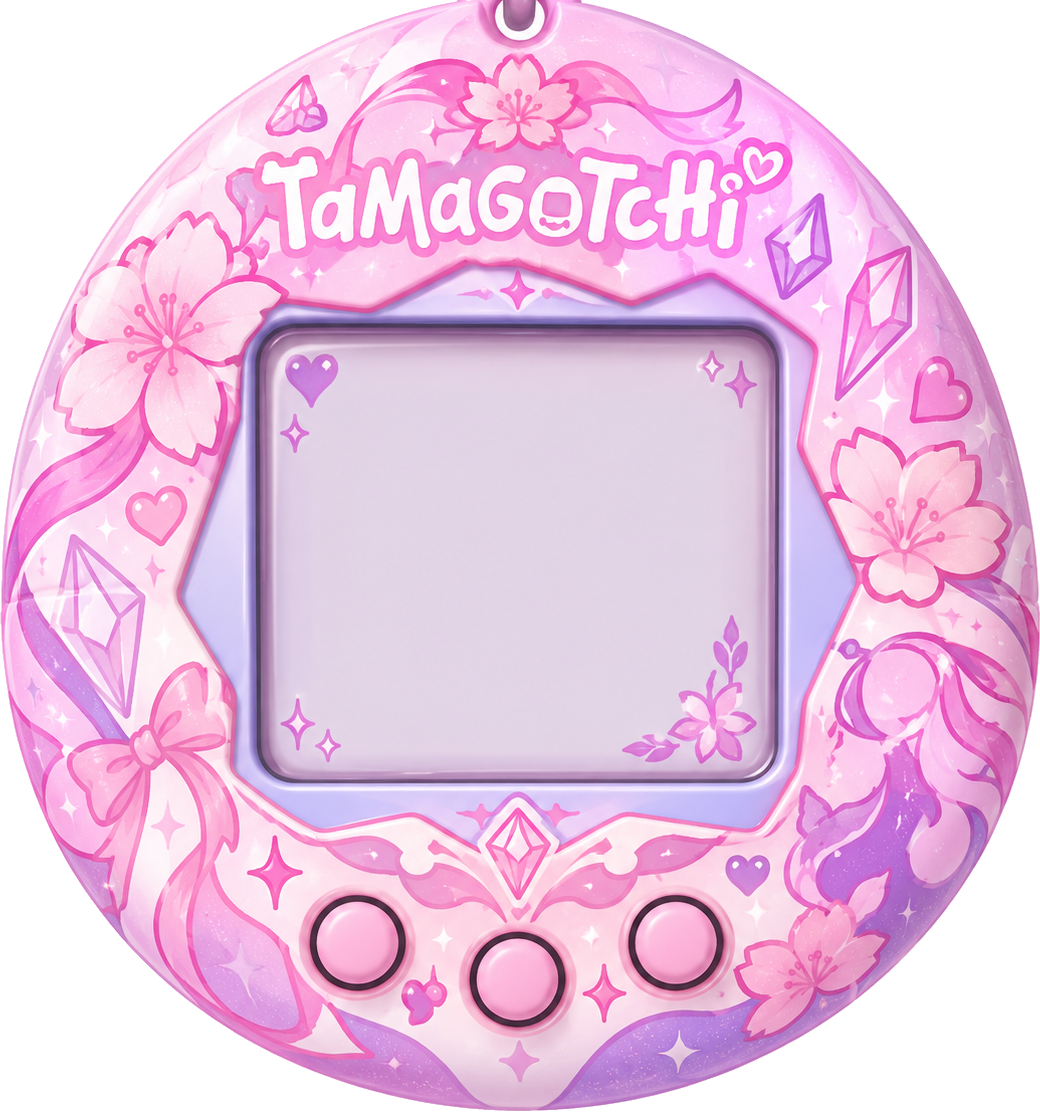
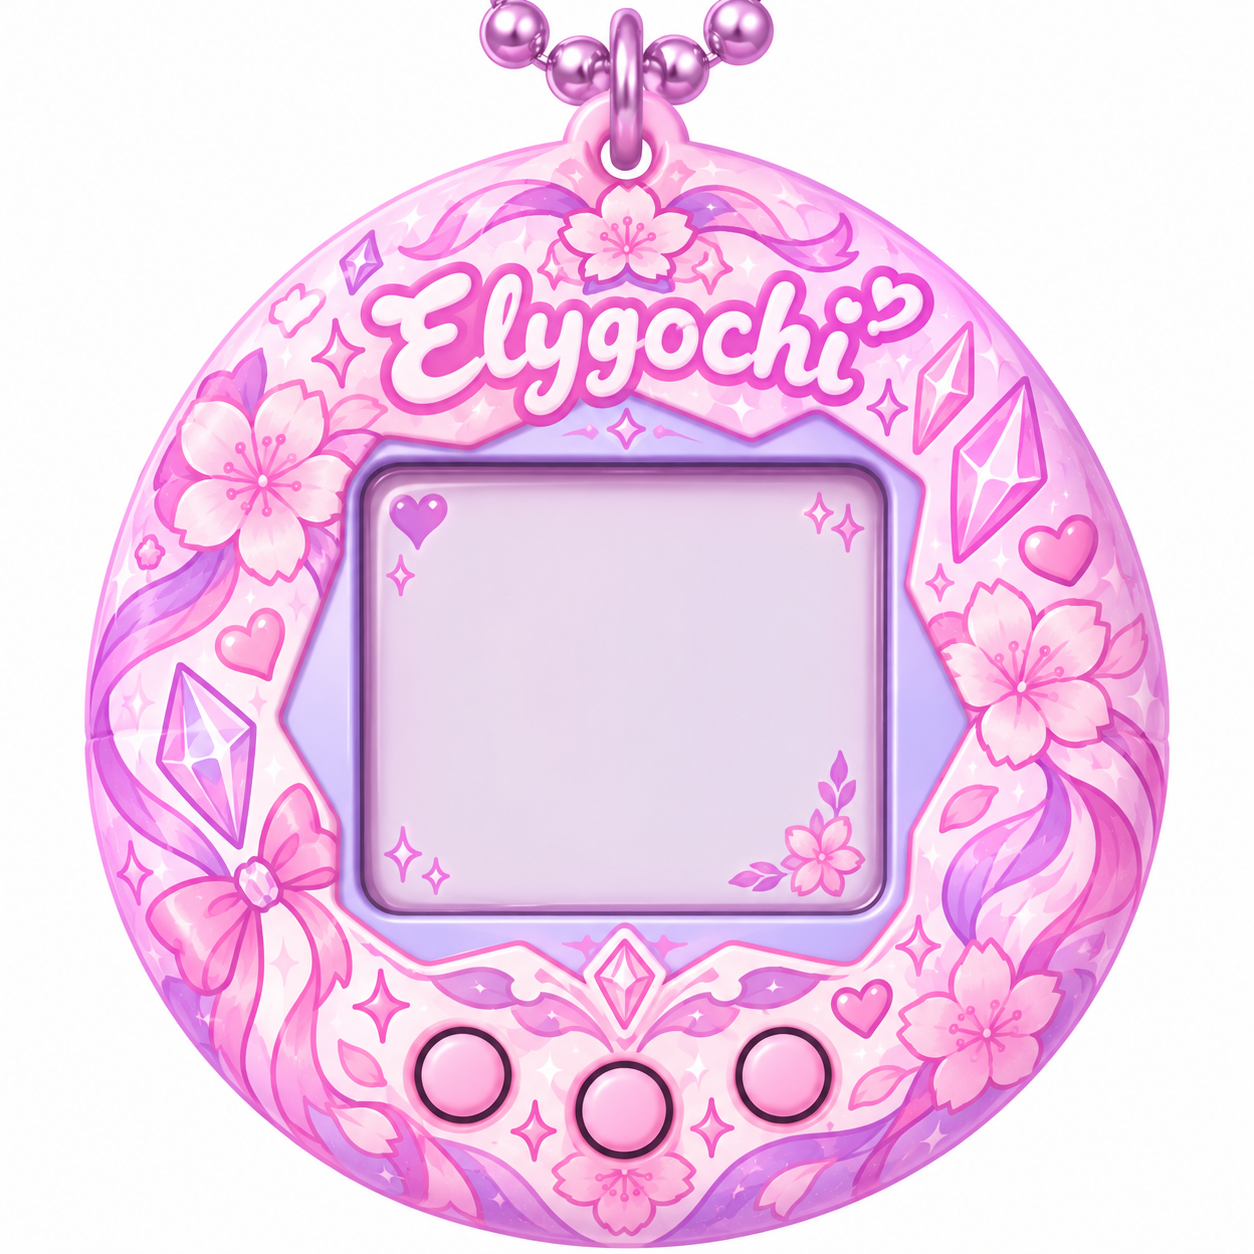
Rename project to Elygochi, new shell art, time-of-day background tint
- Full rename: Go module (tamagotchi -> elygochi), cmd/tamagotchi -> cmd/elygochi, window title,
  macOS bundle name/identifier, config directory, autostart labels, README
- New shell artwork with "Elygochi" branding baked in; recalculated the portrait screen-cutout
  rect and native art dimensions for its new 1254x1254 square canvas (was 1040x1112)
- Background now shifts through a pale palette across the day (cool lavender at night, peach in
  the morning, the original pink at midday, warm sunset tones in the evening) instead of a single
  fixed color — stays light enough that the existing dark-ink text is always readable
- README: documented Spotify setup for both paths (local detection needs nothing; the Web API
  fallback still needs its own one-time Client ID — Spotify's terms require every app to register
  its own, so there's no single shared login redirect that skips that step)

diff --git a/cmd/elygochi/window_main.go b/cmd/elygochi/window_main.go
@@ -16,16 +16,16 @@ import (
 	"github.com/hajimehoshi/ebiten/v2/inpututil"
 	"github.com/hajimehoshi/ebiten/v2/vector"
 
-	"tamagotchi/internal/assets"
-	"tamagotchi/internal/birthday"
-	"tamagotchi/internal/pet"
-	"tamagotchi/internal/phrases"
-	"tamagotchi/internal/sleepcfg"
-	"tamagotchi/internal/spotify"
-	"tamagotchi/internal/sysinfo"
-	"tamagotchi/internal/uifont"
-	"tamagotchi/internal/username"
-	"tamagotchi/internal/weather"
+	"elygochi/internal/assets"
+	"elygochi/internal/birthday"
+	"elygochi/internal/pet"
+	"elygochi/internal/phrases"
+	"elygochi/internal/sleepcfg"
+	"elygochi/internal/spotify"
+	"elygochi/internal/sysinfo"
+	"elygochi/internal/uifont"
+	"elygochi/internal/username"
+	"elygochi/internal/weather"
 )
 
 const (
@@ -39,7 +39,7 @@ const (
 	nowPlayingY      = infoBarHeight + 4
 	nowPlayingHeight = 24 // dedicated row for "what's playing", separate from the crowded info bar
 
-	shellWidth = 440 // the tamagotchi shell art is scaled to this width
+	shellWidth = 440 // the elygochi shell art is scaled to this width
 	shellX     = (winWidth - shellWidth) / 2
 	shellY     = nowPlayingY + nowPlayingHeight + 12
 
@@ -71,10 +71,10 @@ const (
 // instead of being logged like a real failure.
 var errQuit = errors.New("closed by user")
 
-// shellHeight is derived from the source art's aspect ratio (1040x1112).
+// shellHeight is derived from the source art's aspect ratio.
 var shellHeight = func() int {
 	w := float64(shellWidth)
-	return int(w * 1112 / 1040)
+	return int(w * assets.ShellNativeH / assets.ShellNativeW)
 }()
 
 type button struct {
@@ -188,7 +188,7 @@ func runMainWindow() {
 	}
 
 	ebiten.SetWindowSize(winWidth, winHeight)
-	ebiten.SetWindowTitle("Elysia — tamagochi")
+	ebiten.SetWindowTitle("Elygochi")
 	if icon, err := assets.LoadAppIcon(); err == nil {
 		ebiten.SetWindowIcon([]image.Image{icon})
 	}
@@ -203,12 +203,11 @@ func runMainWindow() {
 	g.store.save(g.state)
 }
 
-// scaleRect maps a rectangle from the shell art's native 1040x1112 space
-// into window coordinates, given the displayed shell size and offset.
+// scaleRect maps a rectangle from the shell art's native pixel space into
+// window coordinates, given the displayed shell size and offset.
 func scaleRect(r image.Rectangle, dispW, dispH, offX, offY int) image.Rectangle {
-	const nativeW, nativeH = 1040, 1112
-	sx := float64(dispW) / nativeW
-	sy := float64(dispH) / nativeH
+	sx := float64(dispW) / assets.ShellNativeW
+	sy := float64(dispH) / assets.ShellNativeH
 	return image.Rect(
 		offX+int(float64(r.Min.X)*sx),
 		offY+int(float64(r.Min.Y)*sy),
@@ -413,7 +412,7 @@ func (g *mainGame) scheduleAmbient() {
 }
 
 func (g *mainGame) Draw(screen *ebiten.Image) {
-	screen.Fill(color.RGBA{0xFF, 0xF3, 0xF7, 0xFF})
+	screen.Fill(bgColorForTime(time.Now()))
 	drawBackgroundDecor(screen)
 
 	var white ebiten.ColorScale

diff --git a/cmd/elygochi/decor.go b/cmd/elygochi/decor.go
@@ -3,6 +3,7 @@ package main
 import (
 	"image/color"
 	"math"
+	"time"
 
 	"github.com/hajimehoshi/ebiten/v2"
 	"github.com/hajimehoshi/ebiten/v2/vector"
@@ -22,6 +23,59 @@ func bubbleInkColor() ebiten.ColorScale {
 	var c ebiten.ColorScale
 	c.ScaleWithColor(color.RGBA{0xD6, 0x14, 0x7A, 0xFF})
 	return c
+}
+
+// bgAnchor is one point in the day's background gradient: the hour it's
+// centered on, and the pale background color for that time.
+type bgAnchor struct {
+	hour float64
+	clr  color.RGBA
+}
+
+// bgAnchors stay light enough that the existing dark-ink text (inkColor,
+// bubbleInkColor) is always readable — this is an ambient tint across the
+// day, not a real light/dark theme switch.
+var bgAnchors = []bgAnchor{
+	{2, color.RGBA{0xEB, 0xE8, 0xFA, 0xFF}},  // deep night: pale cool lavender
+	{6, color.RGBA{0xEB, 0xE8, 0xFA, 0xFF}},  // pre-dawn: same as night
+	{9, color.RGBA{0xFF, 0xF1, 0xE6, 0xFF}},  // morning: soft warm peach
+	{13, color.RGBA{0xFF, 0xF3, 0xF7, 0xFF}}, // midday: the original pink
+	{18, color.RGBA{0xFF, 0xE9, 0xE2, 0xFF}}, // evening: warm rosy sunset
+	{21, color.RGBA{0xEB, 0xE8, 0xFA, 0xFF}}, // night: back to lavender
+}
+
+// bgColorForTime interpolates bgAnchors around the clock for a smooth
+// gradient rather than hard cuts between time-of-day palettes.
+func bgColorForTime(t time.Time) color.RGBA {
+	h := t.Hour()
+	m := t.Minute()
+	hour := float64(h) + float64(m)/60
+
+	n := len(bgAnchors)
+	for i := 0; i < n; i++ {
+		a := bgAnchors[i]
+		b := bgAnchors[(i+1)%n]
+		bHour := b.hour
+		if bHour <= a.hour {
+			bHour += 24
+		}
+		hh := hour
+		if hh < a.hour {
+			hh += 24
+		}
+		if hh >= a.hour && hh <= bHour {
+			frac := (hh - a.hour) / (bHour - a.hour)
+			return lerpColor(a.clr, b.clr, frac)
+		}
+	}
+	return bgAnchors[0].clr
+}
+
+func lerpColor(a, b color.RGBA, t float64) color.RGBA {
+	lerp := func(x, y uint8) uint8 {
+		return uint8(float64(x) + (float64(y)-float64(x))*t)
+	}
+	return color.RGBA{lerp(a.R, b.R), lerp(a.G, b.G), lerp(a.B, b.B), 0xFF}
 }
 
 type decoration struct {

diff --git a/internal/assets/assets.go b/internal/assets/assets.go
@@ -1,4 +1,4 @@
-// Package assets embeds the tamagotchi's art and maps it onto moods.
+// Package assets embeds the elygochi's art and maps it onto moods.
 //
 // The source art (fan illustrations of Elysia and a chibi sticker pack)
 // wasn't drawn with these specific moods in mind, so most of it reads as
@@ -16,8 +16,8 @@ import (
 
 	"github.com/hajimehoshi/ebiten/v2"
 
-	"tamagotchi/internal/gifanim"
-	"tamagotchi/internal/pet"
+	"elygochi/internal/gifanim"
+	"elygochi/internal/pet"
 )
 
 //go:embed portraits
@@ -36,11 +36,18 @@ var appIconFS embed.FS
 var easterEggFS embed.FS
 
 // Frame layout, in the coordinate space of the shell.png asset itself
-// (1040x1112). ScreenRect is the pixel rectangle of the shell's screen
+// (1254x1254). ScreenRect is the pixel rectangle of the shell's screen
 // cutout, where the portrait should be composited.
-var ScreenRect = image.Rect(273, 345, 756, 768)
+var ScreenRect = image.Rect(395, 495, 870, 885)
 
-// LoadFrame decodes the tamagotchi shell artwork that the portrait sits
+// ShellNativeW and ShellNativeH are shell.png's own pixel dimensions —
+// ScreenRect and any other shell-relative coordinates are in this space.
+const (
+	ShellNativeW = 1254
+	ShellNativeH = 1254
+)
+
+// LoadFrame decodes the elygochi shell artwork that the portrait sits
 // inside.
 func LoadFrame() (*ebiten.Image, error) {
 	return decodePNG(frameFS, "frame/shell.png")

diff --git a/cmd/elygochi/window_overlay.go b/cmd/elygochi/window_overlay.go
@@ -11,15 +11,15 @@ import (
 	"github.com/hajimehoshi/ebiten/v2"
 	"github.com/hajimehoshi/ebiten/v2/inpututil"
 
-	"tamagotchi/internal/assets"
-	"tamagotchi/internal/bubblecfg"
-	"tamagotchi/internal/fleecfg"
-	"tamagotchi/internal/gifanim"
-	"tamagotchi/internal/overlaycfg"
-	"tamagotchi/internal/pet"
-	"tamagotchi/internal/phrases"
-	"tamagotchi/internal/sleepcfg"
-	"tamagotchi/internal/uifont"
+	"elygochi/internal/assets"
+	"elygochi/internal/bubblecfg"
+	"elygochi/internal/fleecfg"
+	"elygochi/internal/gifanim"
+	"elygochi/internal/overlaycfg"
+	"elygochi/internal/pet"
+	"elygochi/internal/phrases"
+	"elygochi/internal/sleepcfg"
+	"elygochi/internal/uifont"
 )
 
 // Base dimensions at overlaycfg scale 1.0. The overlay's actual on-screen

diff --git a/internal/pet/pet.go b/internal/pet/pet.go
@@ -1,4 +1,4 @@
-// Package pet implements the tamagotchi's core simulation state:
+// Package pet implements the elygochi's core simulation state:
 // stats, time-based degradation, mood, and persistence.
 package pet
 
@@ -63,7 +63,7 @@ func (m Mood) String() string {
 // criticalThreshold marks a stat as critically low.
 const criticalThreshold = 20
 
-// State is the tamagotchi's full simulation state.
+// State is the elygochi's full simulation state.
 type State struct {
 	Hunger      Stat      `json:"hunger"`      // 0 = starving, 100 = full
 	Energy      Stat      `json:"energy"`      // 0 = exhausted, 100 = rested

diff --git a/cmd/elygochi/settings.go b/cmd/elygochi/settings.go
@@ -9,12 +9,12 @@ import (
 	"github.com/hajimehoshi/ebiten/v2/inpututil"
 	"github.com/hajimehoshi/ebiten/v2/vector"
 
-	"tamagotchi/internal/autostart"
-	"tamagotchi/internal/bubblecfg"
-	"tamagotchi/internal/fleecfg"
-	"tamagotchi/internal/overlaycfg"
-	"tamagotchi/internal/spotify"
-	"tamagotchi/internal/uifont"
+	"elygochi/internal/autostart"
+	"elygochi/internal/bubblecfg"
+	"elygochi/internal/fleecfg"
+	"elygochi/internal/overlaycfg"
+	"elygochi/internal/spotify"
+	"elygochi/internal/uifont"
 )
 
 type settingsRow struct {

diff --git a/internal/statepath/statepath.go b/internal/statepath/statepath.go
@@ -1,4 +1,4 @@
-// Package statepath locates the on-disk file where the tamagotchi's save
+// Package statepath locates the on-disk file where the elygochi's save
 // state lives, shared between the main window and the desktop overlay.
 package statepath
 
@@ -14,7 +14,7 @@ func Default() (string, error) {
 	if err != nil {
 		return "", err
 	}
-	dir = filepath.Join(dir, "tamagotchi")
+	dir = filepath.Join(dir, "elygochi")
 	if err := os.MkdirAll(dir, 0o755); err != nil {
 		return "", err
 	}

diff --git a/cmd/elygochi/main.go b/cmd/elygochi/main.go
@@ -1,4 +1,4 @@
-// Command tamagotchi runs the Elysia desktop tamagotchi: a main window for
+// Command elygochi runs the Elysia desktop elygochi: a main window for
 // feeding/playing/resting the pet, plus a transparent overlay that lets the
 // pet fly around the desktop. The two windows are separate OS processes
 // (Ebitengine only supports one window per process) kept in sync through a

diff --git a/internal/spotify/spotify.go b/internal/spotify/spotify.go
@@ -26,7 +26,7 @@ import (
 	"sync"
 	"time"
 
-	"tamagotchi/internal/spotifylocal"
+	"elygochi/internal/spotifylocal"
 )
 
 const (
@@ -331,7 +331,7 @@ func configDir() (string, error) {
 	if err != nil {
 		return "", err
 	}
-	dir = filepath.Join(dir, "tamagotchi")
+	dir = filepath.Join(dir, "elygochi")
 	if err := os.MkdirAll(dir, 0o755); err != nil {
 		return "", err
 	}

diff --git a/cmd/elygochi/minigame.go b/cmd/elygochi/minigame.go
@@ -11,8 +11,8 @@ import (
 	"github.com/hajimehoshi/ebiten/v2/inpututil"
 	"github.com/hajimehoshi/ebiten/v2/vector"
 
-	"tamagotchi/internal/phrases"
-	"tamagotchi/internal/uifont"
+	"elygochi/internal/phrases"
+	"elygochi/internal/uifont"
 )
 
 // A short "catch the hearts" mini-game: pixel-art hearts pop up at random

diff --git a/internal/autostart/autostart_windows.go b/internal/autostart/autostart_windows.go
@@ -8,7 +8,7 @@ import (
 	"golang.org/x/sys/windows/registry"
 )
 
-const runValueName = "ElysiaTamagotchi"
+const runValueName = "ElysiaElygochi"
 
 func windowsEnabled() bool {
 	k, err := registry.OpenKey(registry.CURRENT_USER, `Software\Microsoft\Windows\CurrentVersion\Run`, registry.QUERY_VALUE)

diff --git a/internal/weather/weather.go b/internal/weather/weather.go
@@ -208,7 +208,7 @@ func cityConfigPath() (string, error) {
 	if err != nil {
 		return "", err
 	}
-	dir = filepath.Join(dir, "tamagotchi")
+	dir = filepath.Join(dir, "elygochi")
 	if err := os.MkdirAll(dir, 0o755); err != nil {
 		return "", err
 	}
